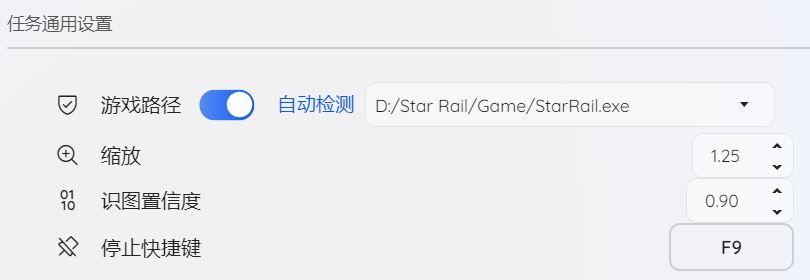
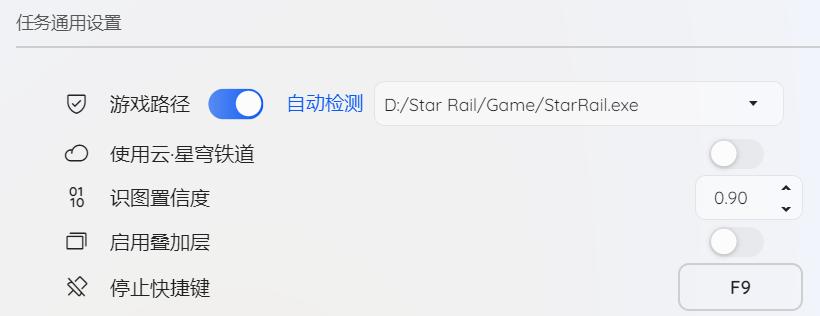
docs(advance): update version references and enhance command line usage instructions

diff --git a/src/getstarted/advance.md b/src/getstarted/advance.md
@@ -140,7 +140,7 @@ SRA 的货币战争任务使用预定义的攻略，参阅 `tasks/currency_wars/
 ## 设置
 
 :::tip
-下面的内容以 `2.0.0` 版本为例进行说明。
+下面的内容以 `2.14.0` 版本为例进行说明。
 :::
 点击侧边栏'设置'进入标签页。此处可更改SRA的设置。
 
@@ -149,6 +149,7 @@ SRA 的货币战争任务使用预定义的攻略，参阅 `tasks/currency_wars/
 ![任务通用设置](/img/use/settings/tasksetting.png)
 
 - 游戏路径：设置游戏的安装路径，默认会自动检查当前设备上安装的所有平台的游戏路径并提供选择。关闭自动检测后可手动添加游戏路径。
+- 使用云·星穹铁道：开启后SRA会使用云·星穹铁道进行游戏自动化。目前仅支持Microsoft Edge浏览器，请确保您的设备已安装。
 - 识图置信度阈值：控制应用识别游戏内元素的严格程度。默认值为 0.90（90%），可在 0~1
   之间调整，每次增减0.01。值越高，识别越精准（减少误识别）；值越低，识别范围越广（可能出现误识别）。
 - 停止快捷键：设置一个全局快捷键，用于在任务执行过程中立即停止当前任务。默认是 `F9` 键。点击输入框后按下所需快捷键即可更改。点击空白处可取消更改。
@@ -163,6 +164,8 @@ SRA 的货币战争任务使用预定义的攻略，参阅 `tasks/currency_wars/
 - 无边框窗口：开启后，游戏窗口将没有边框和标题栏，提供更沉浸的体验。
 - 高级参数：在此输入框中可以添加额外的游戏启动参数。
 - 使用CMD启动游戏：开启后，SRA会通过命令行（CMD）来启动游戏，这对于某些需要特定环境变量或参数的游戏可能更有效。
+- 除此之外，启用启动参数还会附带以下功能：
+  - 开启沿用自动战斗设置和开启自动战斗
 
 ### 游戏内快捷键设置
 
@@ -276,9 +279,14 @@ SRA 的货币战争任务使用预定义的攻略，参阅 `tasks/currency_wars/
 :::tip 尽管如此，您仍需要先通过主程序配置好任务，SRA-cli 仅用于执行任务。
 :::
 
+:::warning 已变更，在2.14版本后，不再提供独立的 SRA-cli.exe 文件
+用户可以直接在主程序的控制台标签页使用命令行功能。
+若要使用独立的命令行工具，请运行 `./python/python.exe main.py`.
+:::
+
 ### 简单使用
 
-双击运行 `SRA-cli.exe`，即可看到 SRA-cli 的控制台窗口。
+运行 `SRA-cli`，即可看到 SRA-cli 的控制台窗口。
 输入help查看可用命令：
 
 ```bash
@@ -447,105 +455,20 @@ sra>
 
 ### 高级使用
 
-SRA-cli 支持通过命令行参数调用。
-使用`SRA-cli --help`查看帮助信息：
+#### 启动后立即执行某些命令
 
+可以在启动 SRA-cli 时通过命令行参数来指定要执行的命令。
+例如，以下命令会在启动后立即运行 `Default` 配置中的任务：
 ```bash
-usage: SRA-cli [-h] [--inline] [--embed] [--version] [--log-level {TRACE,DEBUG,INFO,SUCCESS,WARNING,ERROR,CRITICAL}] {run,single} ...
-
-SRA-cli：SRA 命令行工具
-
-options:
-  -h, --help            show this help message and exit
-  --inline              内联模式（无命令提示符）
-  --embed               嵌入模式（无命令提示符）
-  --version             显示 SRA-cli 的版本并退出。
-  --log-level {TRACE,DEBUG,INFO,SUCCESS,WARNING,ERROR,CRITICAL}
-                        设置日志记录级别（默认：TRACE）。
-
-subcommands:
-  {run,single}
-    run                 运行指定配置文件中的所有选中的任务。输入 'run --help' 获取更多信息。
-    single              运行由其名称或索引指定的单个任务。输入 'single --help' 获取更多信息。
+SRA.exe -e task run Default
 ```
-
-#### 通过命令行参数运行任务
-
-输入 `SRA-cli run -h` 查看 `run` 命令的帮助信息：
-
+以下命令会在启动后立即运行 所有 配置中的任务：
 ```bash
-usage: SRA-cli run [-h] [--config [CONFIG ...]] [--once]
-
-运行指定配置文件中的所有任务。如果未指定配置文件，则使用缓存中的全部配置文件。此命令将阻塞 CLI 直到所有任务完成。
-
-options:
-  -h, --help            show this help message and exit
-  --config [CONFIG ...]
-                        配置文件名称或路径。
-  --once                运行命令后退出 SRA-cli。
+SRA.exe -e task run
 ```
-
-使用 `SRA-cli run --config [配置名称...]` 命令运行任务。
-如果不指定配置名称，则默认运行**全部**配置。
-可以指定多个配置名称，SRA-cli 会依次运行这些配置。
-使用此命令运行任务后，当前命令行会被阻塞，直到任务完成。可通过按下 `Ctrl+C` 停止任务。
-使用此命令运行任务后，SRA-cli 会在任务完成后返回交互模式。如果需要仅执行任务后退出，可以添加 `--once` 参数。
-
-示例：运行名为 `Default` 和 `PlanB` 的配置，并在任务完成后退出 SRA-cli：
-
+以下命令会在启动后立即**阻塞式**运行 所有 配置中的任务，并在任务完成后退出 SRA-cli：
 ```bash
-SRA-cli run --config Default PlanB --once
-```
-
-示例: 运行当前配置，并在任务完成后进入 SRA-cli：
-
-```bash
-SRA-cli run
-```
-
-示例: 运行指定目录下的 `my_config.json` 配置，并在任务完成后退出 SRA-cli：
-
-```bash
-SRA-cli run --config "path\to\my_config.json" --once
-```
-
-输入 `SRA-cli single -h` 查看 `single` 命令的帮助信息：
-
-```bash
-usage: SRA-cli single [-h] --task-name TASK_NAME [--config [CONFIG]] [--once]
-
-运行由其名称或索引指定的单个任务，无论它是否被选中。如果未指定配置文件，则使用缓存中的当前配置文件。此命令将阻塞 CLI 直到任务完成
-
-options:
-  -h, --help            show this help message and exit
-  --task-name TASK_NAME, -t TASK_NAME
-                        要运行的任务的名称或索引
-  --config [CONFIG]     配置文件名称或路径
-  --once                运行命令后退出 SRA-cli
-```
-
-使用 `SRA-cli single` 命令运行单个任务，无论它在配置中是否被启用。
-**必须通过 `--task-name` 或 `-t` 参数指定任务的名称或索引。**
-可以通过 `--config` 参数指定配置名称或路径。如果不指定，则默认使用**当前**配置。
-使用此命令运行任务后，当前命令行会被阻塞，直到任务完成。可通过按下 `Ctrl+C` 停止任务。
-使用此命令运行任务后，SRA-cli 会在任务完成后返回交互模式。如果需要仅执行任务后退出，可以添加 `--once` 参数。
-
-示例：运行当前配置中的单个任务 `领取奖励`，并在任务完成后退出 SRA-cli：
-
-```bash
-SRA-cli single --task-name ReceiveRewardsTask --once
-```
-
-或者
-
-```bash
-SRA-cli single -t 2 --once
-```
-
-示例：运行指定配置中的单个任务 `清开拓力`，并在任务完成后进入 SRA-cli：
-
-```bash
-SRA-cli single --task-name TrailblazePowerTask --config my_config.json
+SRA.exe -e run + exit
 ```
 
 #### 将 SRA 与第三方程序集成